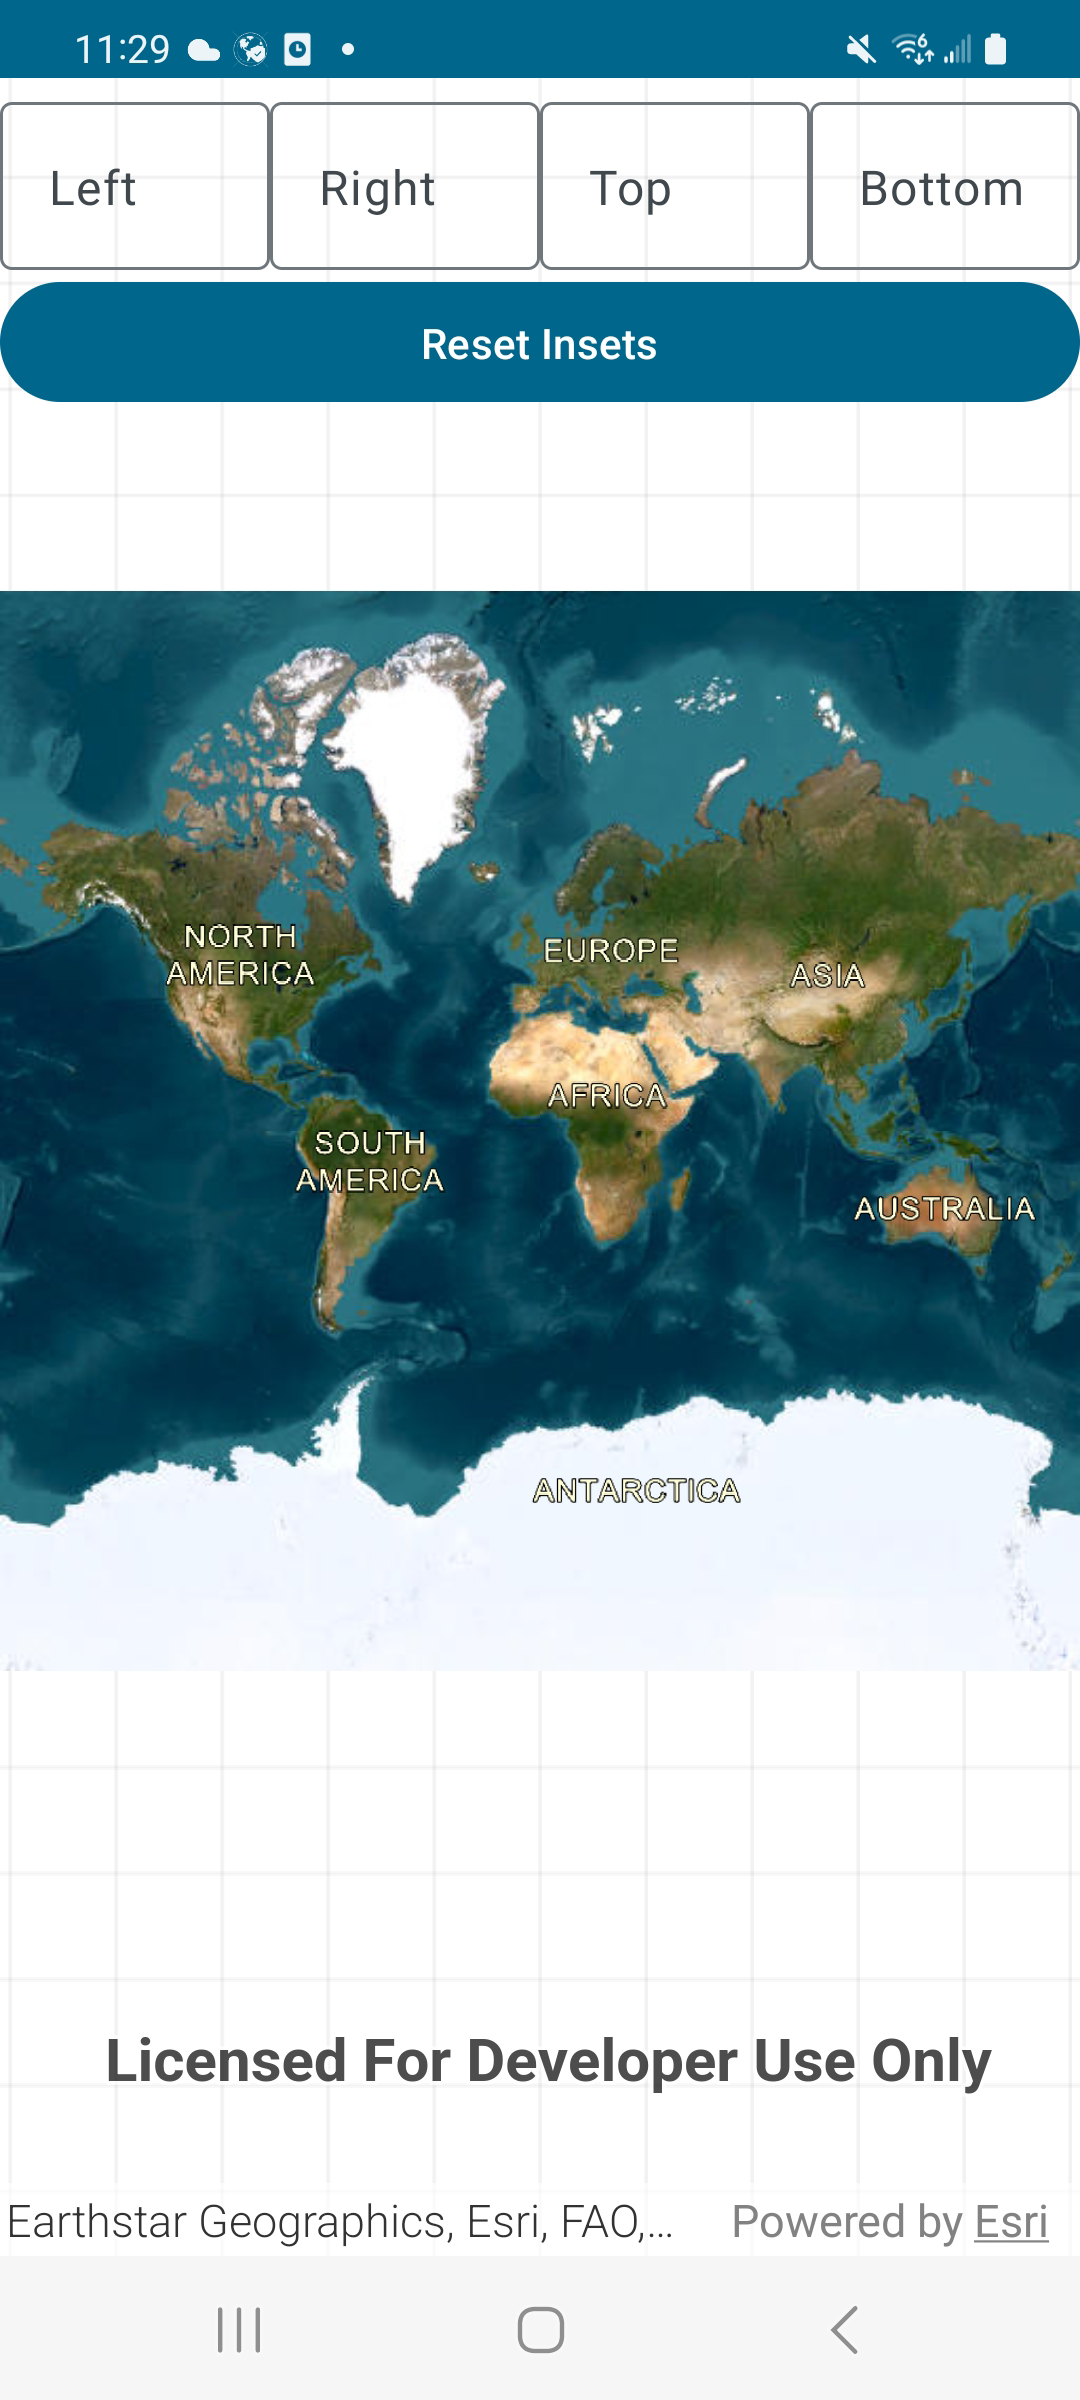
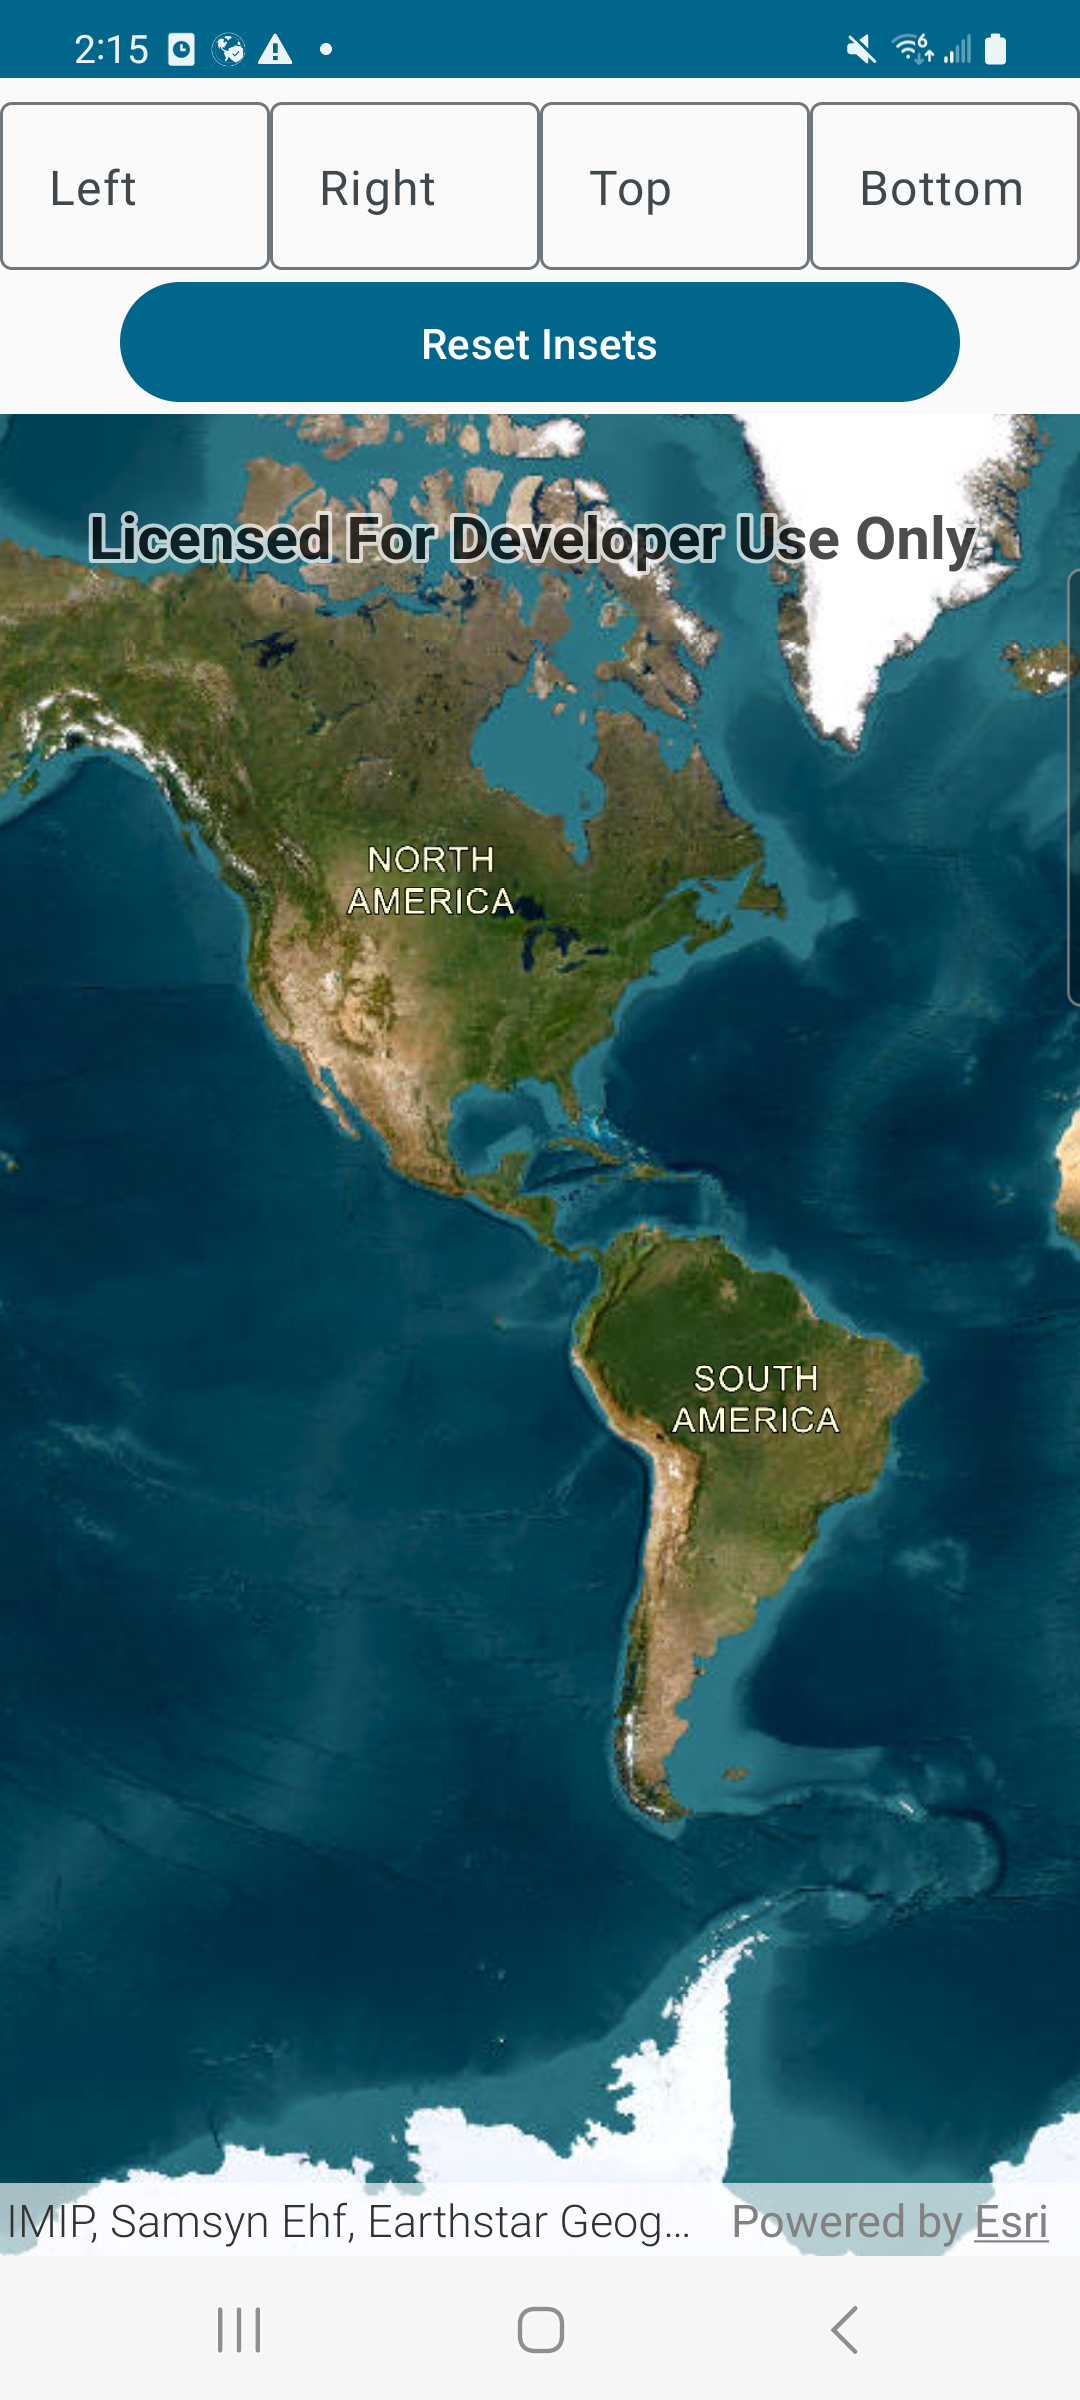
address code review comments

diff --git a/microapps/MapviewInsetsApp/app/src/main/java/com/arcgismaps/toolkit/mapviewinsetsapp/screens/MainScreen.kt b/microapps/MapviewInsetsApp/app/src/main/java/com/arcgismaps/toolkit/mapviewinsetsapp/screens/MainScreen.kt
@@ -24,6 +24,7 @@ import androidx.compose.foundation.layout.PaddingValues
 import androidx.compose.foundation.layout.Row
 import androidx.compose.foundation.layout.fillMaxSize
 import androidx.compose.foundation.layout.fillMaxWidth
+import androidx.compose.foundation.layout.padding
 import androidx.compose.foundation.layout.size
 import androidx.compose.foundation.text.KeyboardActions
 import androidx.compose.foundation.text.KeyboardOptions
@@ -74,14 +75,11 @@ fun MainScreen() {
     }
 
     val focusManager = LocalFocusManager.current
-    MapView(
-        modifier = Modifier.fillMaxSize(),
-        arcGISMap = arcGISMap,
-        insets = insets
-    )
-
     Column(Modifier.fillMaxSize()) {
-        Row(Modifier.fillMaxWidth(), horizontalArrangement = Arrangement.SpaceEvenly) {
+        Row(
+            Modifier.fillMaxWidth(),
+            horizontalArrangement = Arrangement.SpaceEvenly
+        ) {
 
             InsetTextField(
                 value = leftText,
@@ -111,6 +109,7 @@ fun MainScreen() {
                 updateInsets = updateInsets
             )
         }
+
         Button(onClick = {
             insets = PaddingValues(0.0.dp, 0.0.dp, 0.0.dp, 0.0.dp)
             leftText = TextFieldValue("")
@@ -118,9 +117,15 @@ fun MainScreen() {
             topText = TextFieldValue("")
             bottomText = TextFieldValue("")
             focusManager.clearFocus()
-        }, Modifier.fillMaxWidth()) {
+        }, Modifier.fillMaxWidth().padding(horizontal = 40.dp)) {
             Text("Reset Insets")
         }
+
+        MapView(
+            modifier = Modifier.fillMaxSize(),
+            arcGISMap = arcGISMap,
+            insets = insets
+        )
     }
 }
 

diff --git a/toolkit/geo-compose/src/main/java/com/arcgismaps/toolkit/geocompose/MapView.kt b/toolkit/geo-compose/src/main/java/com/arcgismaps/toolkit/geocompose/MapView.kt
@@ -69,7 +69,7 @@ import kotlinx.coroutines.launch
  * @param viewLabelProperties the [ViewLabelProperties] used by the composable [com.arcgismaps.toolkit.geocompose.MapView]
  * @param selectionProperties the [SelectionProperties] used by the composable [com.arcgismaps.toolkit.geocompose.MapView]
  * @param insets the inset values to control the active visible area, instructing the MapView to ignore parts that may be obstructed
- * by overlaid UI elements and affecting the MapView's logical center, the reported visible area and the location display.
+ * by overlaid UI elements and affecting the MapView's logical center, the reported visible area and the location display
  * @param grid represents the display of a coordinate system [Grid] on the composable [com.arcgismaps.toolkit.geocompose.MapView]
  * @param backgroundGrid the default color and context grid behind the map surface
  * @param wrapAroundMode the [WrapAroundMode] to specify whether continuous panning across the international date line is enabled
